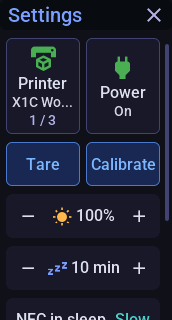
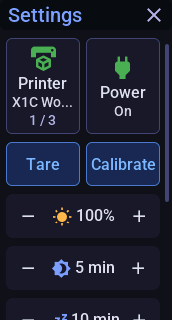
Make the dim timeout a setting, 5 minutes by default
The backlight dimmed after a fixed 60 s, which is short for a console
mounted next to a printer. Settings > Sleep gets a Dim after row (Never,
1, 2, 3, 5, 10, 15 or 30 min, default 5), and the Lite settings panel
gets the same stepper. lvgl on_idle reads the setting through a lambda,
so a change applies without a reboot, and the Power state sensor and the
Lite wake check use the same threshold instead of a hard-coded 60000 ms.
The full UI's Inactivity row is relabelled Sleep after so the two timers
read clearly side by side.

diff --git a/docs/console-lite.md b/docs/console-lite.md
@@ -175,14 +175,14 @@ up or tap ✕ to close. The panel scrolls.
 
 | | |
 |---|---|
-| <img src="images/ui/lite/settings.png" alt="Settings: Printer tile (X1C Workshop, 1 / 3), Power tile (On), Tare and Calibrate, brightness and inactivity rows" width="172"> | **Printer** — tap to switch to the next printer; auto-assign uses the selected one. **Power** — tap to switch the printer's power plug (the plug Bambuddy marks as controlling the printer; the tile is hidden without one). **Tare** and **Calibrate** the scale. **Brightness** (−/+). |
-| <img src="images/ui/lite/settings-more.png" alt="Settings scrolled: inactivity 10 min, NFC in sleep Slow, Clear Location on AMS Load On, connection icons and version" width="172"> | **Inactivity** (−/+) — sleep after 5–60 min without touch, scan or weight change, or *Never*. **NFC in sleep** — tap to switch between *Slow* (default) and *On*, which keep scanning so a tag wakes the screen, and *Off*, which stops the reader while asleep. **Clear Location on AMS Load** — tap for On/Off. WiFi, Bambuddy and scale status, and the firmware version. |
+| <img src="images/ui/lite/settings.png" alt="Settings: Printer tile (X1C Workshop, 1 / 3), Power tile (On), Tare and Calibrate, brightness, dim and inactivity rows" width="172"> | **Printer** — tap to switch to the next printer; auto-assign uses the selected one. **Power** — tap to switch the printer's power plug (the plug Bambuddy marks as controlling the printer; the tile is hidden without one). **Tare** and **Calibrate** the scale. **Brightness** (−/+). |
+| <img src="images/ui/lite/settings-more.png" alt="Settings scrolled: dim after 5 min, inactivity 10 min, NFC in sleep Slow, Clear Location on AMS Load On, connection icons and version" width="172"> | **Dim after** (−/+) — dim the backlight after 1–30 min, or *Never* (5 min by default). **Inactivity** (−/+) — sleep after 5–60 min without touch, scan or weight change, or *Never*. **NFC in sleep** — tap to switch between *Slow* (default) and *On*, which keep scanning so a tag wakes the screen, and *Off*, which stops the reader while asleep. **Clear Location on AMS Load** — tap for On/Off. WiFi, Bambuddy and scale status, and the firmware version. |
 | <img src="images/ui/lite/calibrate.png" alt="'Calibrate Scale': 100 g with -1/+1, -10/+10, -100/+100, Cancel and Calibrate" width="172"> | **Calibrate Scale.** Put a known weight on the empty scale, set it with the buttons, tap **Calibrate**. |
 
 All settings are kept across restarts.
 
-**Dim and sleep.** As on the full console, the backlight dims after 60 s
-without activity and turns off after the *Inactivity* time. Putting a spool
+**Dim and sleep.** As on the full console, the backlight dims after the
+*Dim after* time without activity and turns off after the *Inactivity* time. Putting a spool
 on the scale, scanning a tag (unless NFC in sleep is *Off*), a build-plate
 popup or a touch wakes it. The waking touch doesn't also press a button.
 

diff --git a/docs/usage.md b/docs/usage.md
@@ -246,9 +246,10 @@ through every screen.
 
   <img src="images/ui/full/quick-settings.png" alt="Quick settings drawer with Power and Printer tiles" width="360">
 
-- **Sleep**: the console dims its backlight after 60 s idle and can go into
-  a deep-idle "sleep" tier (backlight off, reduced network cadence) after a
-  configurable timeout — any touch, new tag, or weight change wakes it.
+- **Sleep**: the console dims its backlight to 20 % after the **Dim after**
+  time (Settings → Sleep; 1–30 min or *Never*, 5 min by default) and can go
+  into a deep-idle "sleep" tier (backlight off, reduced network cadence) after
+  the **Sleep after** time — any touch, new tag, or weight change wakes it.
 - **Scale status LED**: red = no WiFi, blue = WiFi up but console
   unreachable, green = fully connected. With several consoles: green = all
   reachable, blue = only some, red = none.
